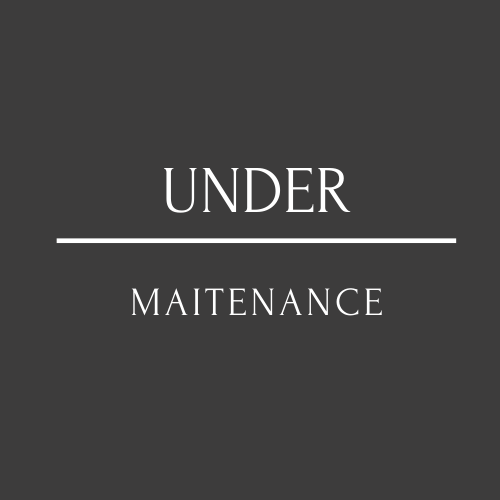
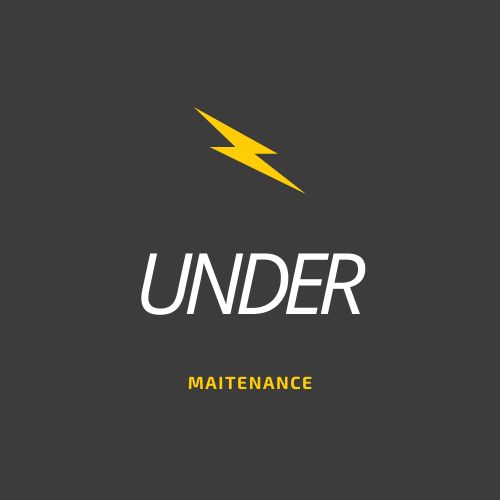
add wip image to all pages

Changed region(s): [[0.12, 0.24, 0.9, 0.63], [0.36, 0.75, 0.63, 0.78], [0.39, 0.21, 0.42, 0.24]]

diff --git a/smite_lore/smite_lore/templates/motd.html b/smite_lore/smite_lore/templates/motd.html
@@ -52,7 +52,7 @@
                 <div class="motddate">{{motd.date}}</div>
             </div>
             <div class="gods-pref">
-                <div class="gods-pref-title">Best Gods for this motd:</div>
+<!--                <div class="gods-pref-title">Best Gods for this motd:</div>-->
                 <div class="gods-bar">
                     {% for god in gods %}
                     {% if god.motdName == motd.name %}
@@ -72,7 +72,7 @@
             {% endfor %}
         </div>
         <div class="main-sections main-con-next">
-            <h4>FUTURE MOTD'S</h4>
+            <h4>FUTURE MOTD</h4>
             {% for motd in future_motd %}
             <div class="motdcell">
                 <div class="motdname">{{motd.name|safe}}</div>
@@ -80,7 +80,7 @@
                 <div class="motddate">{{motd.date}}</div>
             </div>
             <div class="gods-pref">
-                <div class="gods-pref-title">Best Gods for this motd:</div>
+<!--                <div class="gods-pref-title">Best Gods for this motd:</div>-->
                 <div class="gods-bar">
                     {% for god in gods %}
                     {% if god.motdName == motd.name %}
@@ -108,7 +108,7 @@
                 <div class="motddate">{{motd.date}}</div>
             </div>
             <div class="gods-pref">
-                <div class="gods-pref-title">Best Gods for this motd:</div>
+<!--                <div class="gods-pref-title">Best Gods for this motd:</div>-->
                 <div class="gods-bar">
                     {% for god in gods %}
                     {% if god.motdName == motd.name %}
@@ -124,10 +124,11 @@
                 </div>
             </div>
             {% endfor %}
-            <div class="footer">
-                <i>&#169; 2021 Smitelore. All rights reserved.</i>
-            </div>
         </div>
+        <div class="footer">
+                <i>&#169; 2021 Smitelore. All rights reserved.</i>
+        </div>
+    </div>
 </body>
 
 </html>

diff --git a/smite_lore/smite_lore/templates/analyzer.html b/smite_lore/smite_lore/templates/analyzer.html
@@ -37,11 +37,9 @@
         </div>
     </header>
     <div class="main-con">
-        <div class="main-section">
-            under maintenance
-        </div>
-        <div class="footer">
-            &#169; 2021 Smitelore. All rights reserved.
+    <img src="{% static '/images/UM.png' %}" style="width:350px; height:350px; margin: 0 auto;">
+         <div class="footer">
+                <i>&#169; 2021 Smitelore. All rights reserved.</i>
         </div>
     </div>
 </body>

diff --git a/smite_lore/smite_lore/templates/contact.html b/smite_lore/smite_lore/templates/contact.html
@@ -37,11 +37,9 @@
         </div>
     </header>
     <div class="main-con">
-        <div class="main-section">
-            under maintenance
-        </div>
-        <div class="footer">
-            &#169; 2021 Smitelore. All rights reserved.
+    <img src="{% static '/images/UM.png' %}" style="width:350px; height:350px; margin: 0 auto;">
+         <div class="footer">
+                <i>&#169; 2021 Smitelore. All rights reserved.</i>
         </div>
     </div>
 </body>

diff --git a/smite_lore/smite_lore/templates/stats.html b/smite_lore/smite_lore/templates/stats.html
@@ -37,12 +37,10 @@
         </div>
     </header>
     <div class="main-con">
-<div class="main-section">
-    under maintenance
-</div>
-<div class="footer">
-    &#169; 2021 Smitelore. All rights reserved.
-</div>
+    <img src="{% static '/images/UM.png' %}" style="width:350px; height:350px; margin: 0 auto;">
+        <div class="footer">
+                <i>&#169; 2021 Smitelore. All rights reserved.</i>
+        </div>
 </div>
 </body>
 
